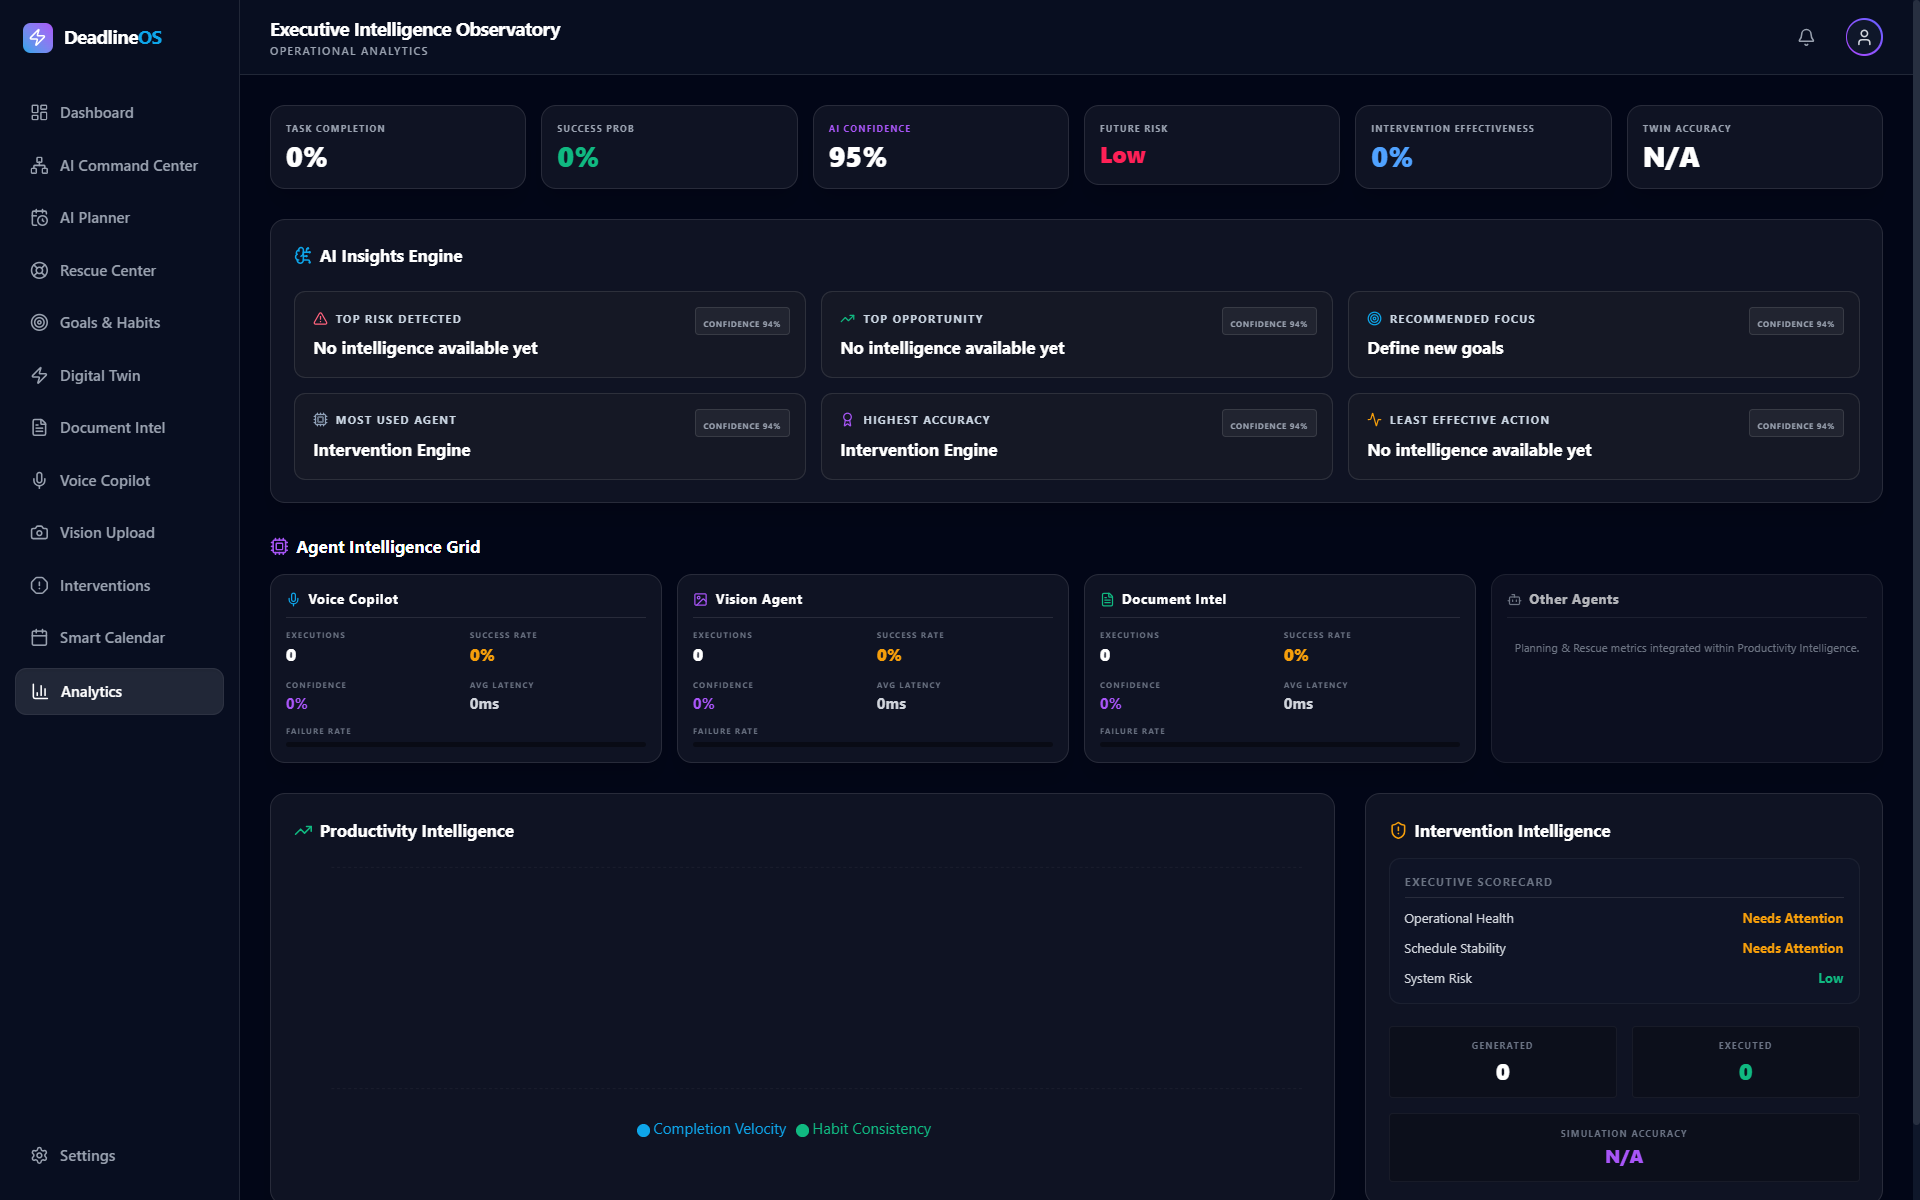
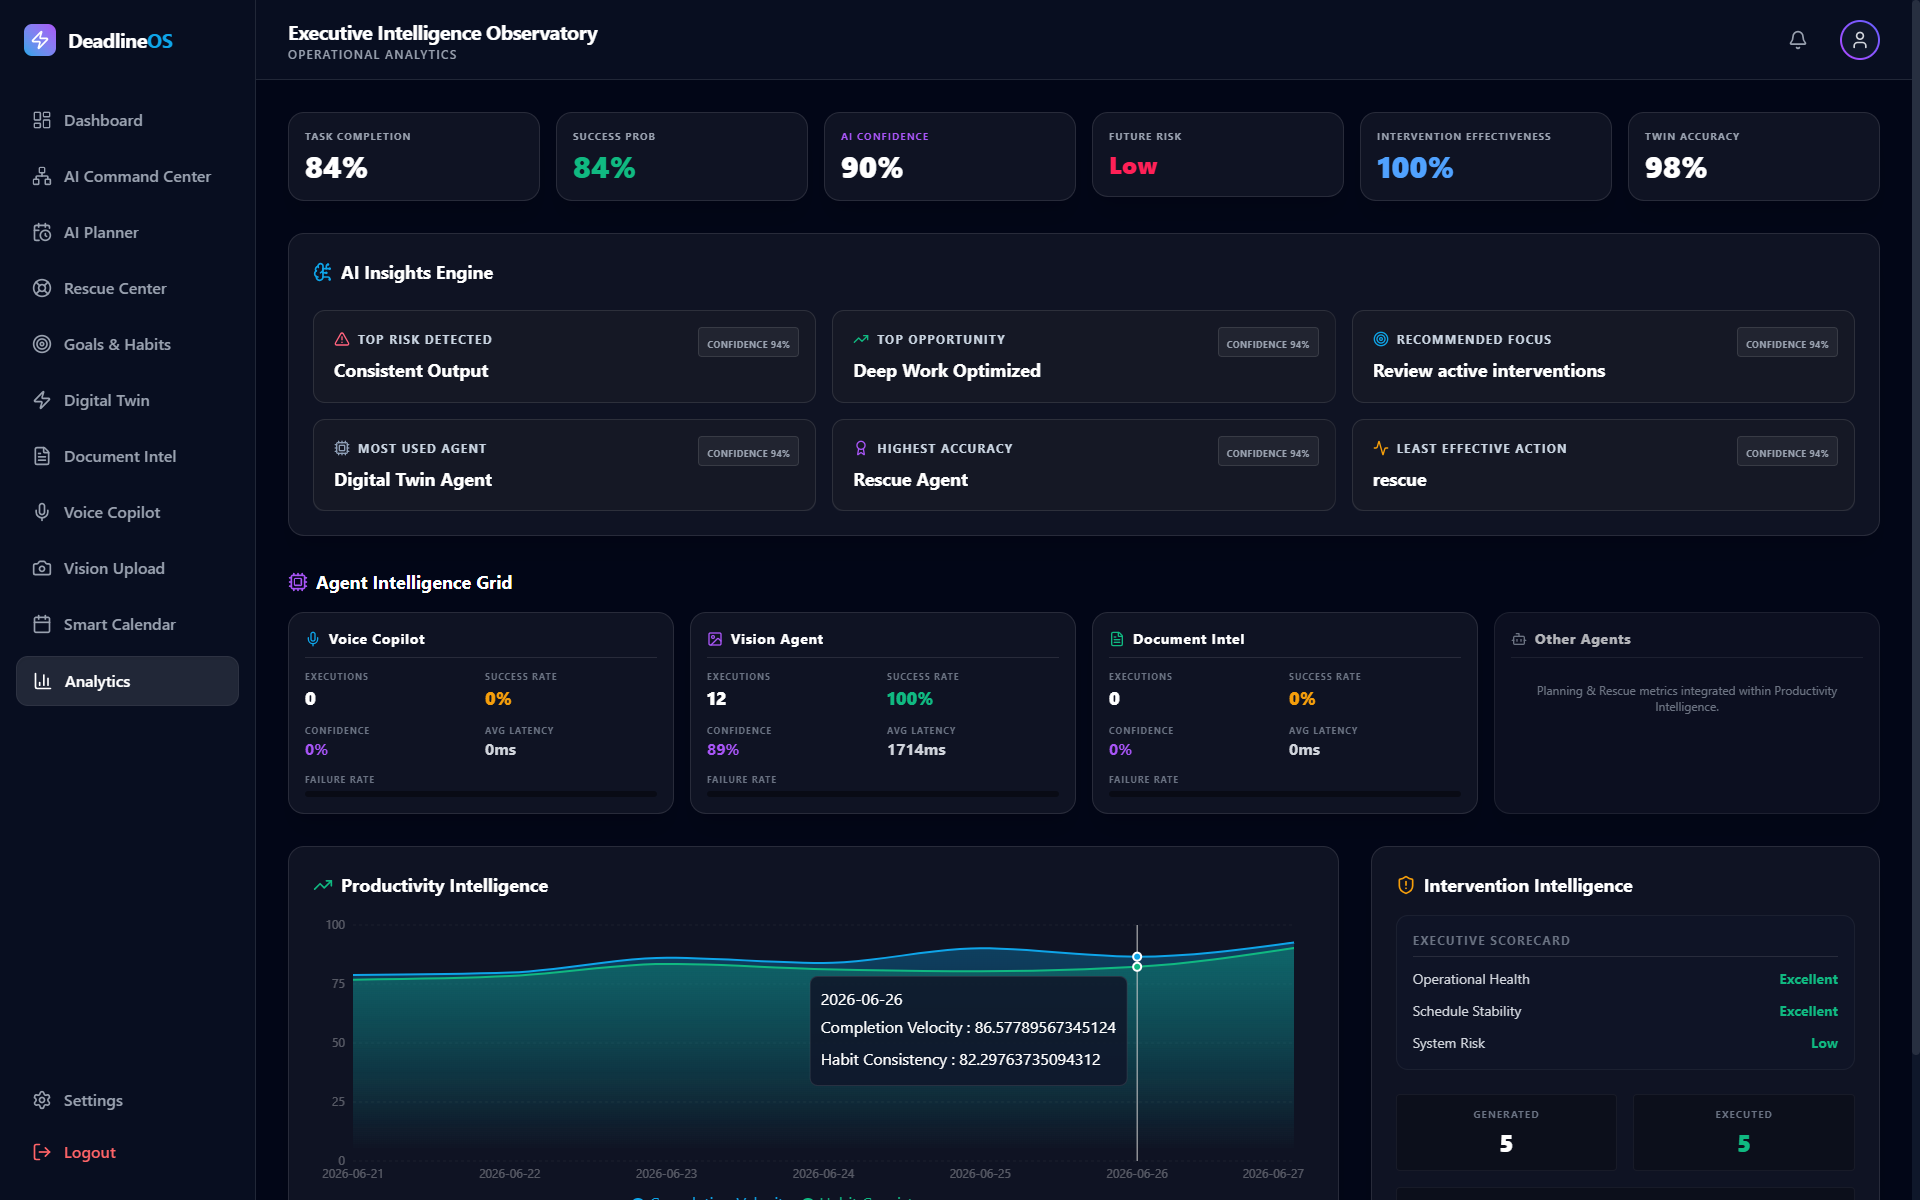
feat: add demo data seeding script and include it in project environment

diff --git a/backend/scripts/seed_demo.py b/backend/scripts/seed_demo.py
@@ -123,13 +123,40 @@ def seed_demo_data():
                                         start_time="09:00", end_time="11:00", focus_block=True))
 
         # 7. RESCUE EVENTS (Historical Interventions)
-        for i in [28, 21, 14, 7, 2]:
-            db.session.add(Intervention(user_id=uid, type="rescue", severity="High", trigger_source="Context Switch Overload",
-                                        message="Detected excessive context switching. Suggested 15min break.",
-                                        recommended_action={"action": "break", "duration": 15}, resolved=True,
-                                        created_at=now - timedelta(days=i)))
+        intervention_scenarios = [
+            ("rescue", "High", "Context Switch Overload", "Detected excessive context switching. Suggesting a 15min break.", {"action": "break", "duration": 15}),
+            ("twin_forecast", "Critical", "Deadline Approaching", "Major deadline in 2 days but 60% of milestone incomplete. Recommended rescheduling non-essentials.", {"action": "reschedule"}),
+            ("procrastination", "Medium", "Accountability Analytics", "You have delayed the 'DSA Practice' habit for 3 consecutive days. Time blocking suggested.", {"action": "block_time"}),
+            ("calendar_overload", "High", "Orchestrator", "Schedule density is at 95% today. Burnout risk elevated. Consider dropping low-priority tasks.", {"action": "drop_tasks"}),
+            ("accountability", "Low", "End of Week Review", "Momentum is slowing down slightly compared to last week. Let's regain focus.", {"action": "review"}),
+            ("rescue", "Critical", "Continuous Work Session", "You've been working for 4 hours straight without a break. Cognitive fatigue imminent.", {"action": "mandatory_break"}),
+            ("twin_forecast", "High", "Schedule Slippage", "Projected 35% chance of missing 'DeadlineOS V1 Launch' if velocity doesn't increase.", {"action": "increase_velocity"}),
+        ]
+        
+        # Add 12 resolved historical interventions
+        for i in range(1, 13):
+            days_ago = i * 2 + random.randint(0, 1)
+            t_type, sev, src, msg, act = random.choice(intervention_scenarios)
+            db.session.add(Intervention(
+                user_id=uid, type=t_type, severity=sev, priority_score=random.randint(60, 95),
+                confidence_score=random.randint(75, 99), trigger_source=src, message=msg,
+                recommended_action=act, resolved=True,
+                created_at=now - timedelta(days=days_ago),
+                resolved_at=now - timedelta(days=days_ago) + timedelta(hours=random.randint(1, 4))
+            ))
 
-        # 8. DIGITAL TWIN SIMULATIONS (15 over 30 days)
+        # Add 2 currently ACTIVE interventions for the dashboard
+        active_scenarios = [
+            ("calendar_overload", "Critical", "Real-Time Telemetry", "Today's schedule has 0 buffer time. One slip will cascade through the entire day. Please review.", {"action": "rebalance"}),
+            ("procrastination", "Medium", "Digital Twin Forecast", "You are trending towards skipping your workout again today based on current trajectory.", {"action": "commit"})
+        ]
+        for idx, (t_type, sev, src, msg, act) in enumerate(active_scenarios):
+            db.session.add(Intervention(
+                user_id=uid, type=t_type, severity=sev, priority_score=random.randint(85, 99),
+                confidence_score=random.randint(85, 99), trigger_source=src, message=msg,
+                recommended_action=act, resolved=False,
+                created_at=now - timedelta(hours=idx * 3 + 1)
+            ))
         sims = ["Delay task", "Increase deep work", "Miss one day", "Extend deadline", "Complete milestone early"]
         for i in range(15):
             s = random.choice(sims)